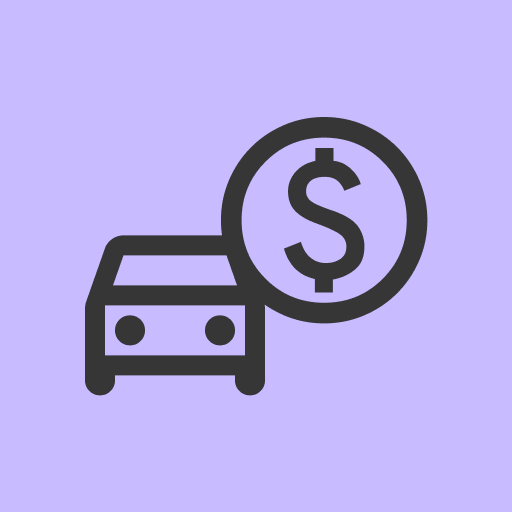
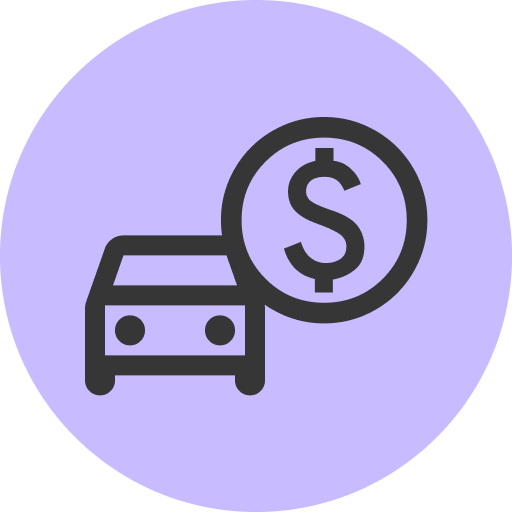
Updates

diff --git a/sw.js b/sw.js
@@ -1,1 +1,1 @@
-if(!self.define){let e,i={};const n=(n,s)=>(n=new URL(n+".js",s).href,i[n]||new Promise((i=>{if("document"in self){const e=document.createElement("script");e.src=n,e.onload=i,document.head.appendChild(e)}else e=n,importScripts(n),i()})).then((()=>{let e=i[n];if(!e)throw new Error(`Module ${n} didn’t register its module`);return e})));self.define=(s,r)=>{const o=e||("document"in self?document.currentScript.src:"")||location.href;if(i[o])return;let t={};const d=e=>n(e,o),c={module:{uri:o},exports:t,require:d};i[o]=Promise.all(s.map((e=>c[e]||d(e)))).then((e=>(r(...e),t)))}}define(["./workbox-3e911b1d"],(function(e){"use strict";self.skipWaiting(),e.clientsClaim(),e.precacheAndRoute([{url:"404.html",revision:"0ac5aa478880e48887a65ebd8542b823"},{url:"assets/index-9-QakpIh.js",revision:null},{url:"assets/index-CDqHQhTn.css",revision:null},{url:"index.html",revision:"c2c81af13958c1df3f91c714ed913f80"},{url:"registerSW.js",revision:"7742bee4fbecfd7352f228ff1bde72d8"},{url:"icons/icon-192x192.png",revision:"ae07028deb9fa7206bd0e909e5944be1"},{url:"icons/icon-512x512.png",revision:"d660c566c5115de999df7791368544d5"},{url:"manifest.webmanifest",revision:"e0fd4e4ff0e29186931edd54cfcca4b7"}],{}),e.cleanupOutdatedCaches(),e.registerRoute(new e.NavigationRoute(e.createHandlerBoundToURL("index.html")))}));
+if(!self.define){let e,i={};const n=(n,s)=>(n=new URL(n+".js",s).href,i[n]||new Promise((i=>{if("document"in self){const e=document.createElement("script");e.src=n,e.onload=i,document.head.appendChild(e)}else e=n,importScripts(n),i()})).then((()=>{let e=i[n];if(!e)throw new Error(`Module ${n} didn’t register its module`);return e})));self.define=(s,r)=>{const o=e||("document"in self?document.currentScript.src:"")||location.href;if(i[o])return;let t={};const c=e=>n(e,o),d={module:{uri:o},exports:t,require:c};i[o]=Promise.all(s.map((e=>d[e]||c(e)))).then((e=>(r(...e),t)))}}define(["./workbox-3e911b1d"],(function(e){"use strict";self.skipWaiting(),e.clientsClaim(),e.precacheAndRoute([{url:"404.html",revision:"0ac5aa478880e48887a65ebd8542b823"},{url:"assets/index-9-QakpIh.js",revision:null},{url:"assets/index-CDqHQhTn.css",revision:null},{url:"index.html",revision:"c2c81af13958c1df3f91c714ed913f80"},{url:"registerSW.js",revision:"7742bee4fbecfd7352f228ff1bde72d8"},{url:"icons/icon-192x192.png",revision:"ae07028deb9fa7206bd0e909e5944be1"},{url:"icons/icon-512x512.png",revision:"5057250c7e818e631dcc63a62b4b7454"},{url:"manifest.webmanifest",revision:"e0fd4e4ff0e29186931edd54cfcca4b7"}],{}),e.cleanupOutdatedCaches(),e.registerRoute(new e.NavigationRoute(e.createHandlerBoundToURL("index.html")))}));
